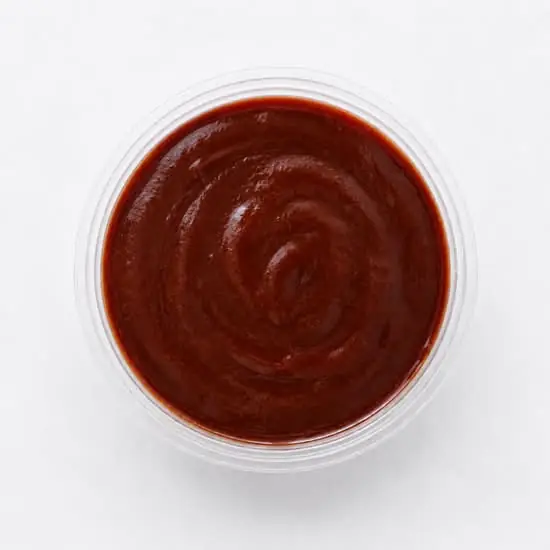
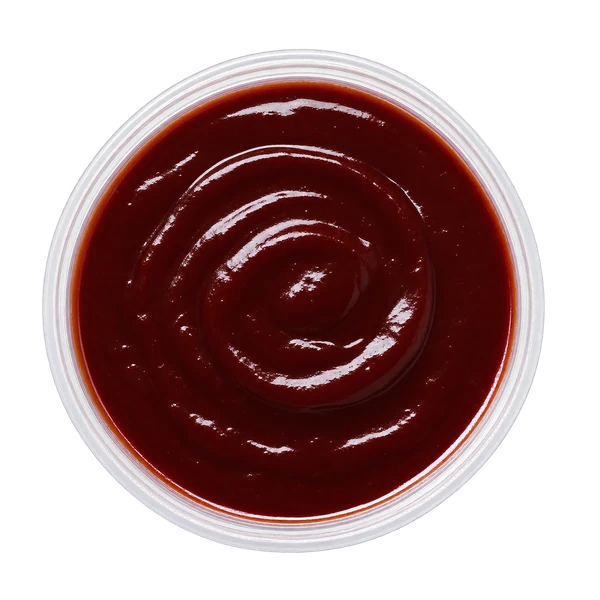
Add files via upload

diff --git a/menu-data.js b/menu-data.js
@@ -27,7 +27,7 @@ const MENU = [
         { label:"Elige tu bebida mini", short:"Bebida", list:["Coca-Cola Original","Coca-Cola Zero","Sprite","Fanta"] }
       ] },
 
-    { id:"combo-complices", name:"Combo Cómplices", people:2, desc:"4 slices a elección y 2 bebidas mini. Para 2 personas.", price:16990, img:"/combo-complices.webp",
+    { id:"combo-complices", name:"Combo Cómplices", people:2, desc:"4 slices a elección y 2 bebidas mini. Para 2 personas.", price:16990, img:"/combo-complices.webp?v=2",
       bundleChoices:[
         { label:"Elige tu slice 1", short:"Slice 1", list:["Tony Pepperoni","The Good Meat","Il Traditore","Napolitana","Margarita","Al Ajillo Boss","Funghi"] },
         { label:"Elige tu slice 2", short:"Slice 2", list:["Tony Pepperoni","The Good Meat","Il Traditore","Napolitana","Margarita","Al Ajillo Boss","Funghi"] },
@@ -62,25 +62,25 @@ const MENU = [
   { id:"pizzas", name:"Pizzas", note:"Formato único de 40 cm.", items:[
     { id:"tgm", name:"The Good Meat", desc:"Carne Mechada, Tocino, Salsa Pomodoro New York y Queso Mozzarella.",
       price:16990, img:"/tgm.webp", combo:{ all:{ extra:5000, desc:"+ Palitos de ajo + Bebida 1.5 L" } },
-      suggest:{ ids:["top-bbq", "top-pomodoro", "top-parmigiano", "top-ketchup"] } },
+      suggest:{ ids:["top-bbq", "top-pomodoro", "top-parmigiano"] } },
     { id:"pepperoni", name:"Tony Pepperoni", desc:"Pepperoni Americano Ultradelgado, Salsa Pomodoro New York y Queso Mozzarella.",
       price:16990, img:"/pepperoni.webp", combo:{ all:{ extra:5000, desc:"+ Palitos de ajo + Bebida 1.5 L" } },
-      suggest:{ ids:["top-bbq", "top-pomodoro", "top-parmigiano", "top-ketchup"] } },
+      suggest:{ ids:["top-bbq", "top-pomodoro", "top-parmigiano"] } },
     { id:"pollo-bbq", name:"Il Traditore", desc:"Pollo BBQ, Tocino, Cebolla Morada, Salsa BBQ y Queso Mozzarella.",
       price:16990, img:"/pollo-bbq.webp", combo:{ all:{ extra:5000, desc:"+ Palitos de ajo + Bebida 1.5 L" } },
-      suggest:{ ids:["top-bbq", "top-pomodoro", "top-parmigiano", "top-ketchup"] } },
+      suggest:{ ids:["top-bbq", "top-pomodoro", "top-parmigiano"] } },
     { id:"napolitana", name:"Napolitana", desc:"Jamón, Tomate, Aceitunas de la Zona, Salsa Pomodoro New York, Queso Mozzarella y Orégano.",
       price:14990, img:"/napolitana.webp", combo:{ all:{ extra:5000, desc:"+ Palitos de ajo + Bebida 1.5 L" } },
-      suggest:{ ids:["top-bbq", "top-pomodoro", "top-parmigiano", "top-ketchup"] } },
+      suggest:{ ids:["top-bbq", "top-pomodoro", "top-parmigiano"] } },
     { id:"margarita", name:"Margarita", desc:"Salsa Pomodoro New York, Queso Mozzarella y Albahaca Fresca.",
       price:14990, img:"/margarita.webp", combo:{ all:{ extra:5000, desc:"+ Palitos de ajo + Bebida 1.5 L" } },
-      suggest:{ ids:["top-bbq", "top-pomodoro", "top-parmigiano", "top-ketchup"] } },
+      suggest:{ ids:["top-bbq", "top-pomodoro", "top-parmigiano"] } },
     { id:"ajillo", name:"Al Ajillo Boss", desc:"Camarones al Ajillo, Pimentón Rojo, Salsa Pomodoro New York, Queso Mozzarella y Perejil Fresco.",
-      price:16990, img:"", combo:{ all:{ extra:5000, desc:"+ Palitos de ajo + Bebida 1.5 L" } },
-      suggest:{ ids:["top-bbq", "top-pomodoro", "top-parmigiano", "top-ketchup"] } },
+      price:16990, img:"/ajillo.webp", combo:{ all:{ extra:5000, desc:"+ Palitos de ajo + Bebida 1.5 L" } },
+      suggest:{ ids:["top-bbq", "top-pomodoro", "top-parmigiano"] } },
     { id:"funghi", name:"Funghi", desc:"Champiñones y Callampas Deshidratadas, Salsa Bechamel, Queso Mozzarella, Queso Parmigiano y Perejil Fresco.",
-      price:14990, img:"", combo:{ all:{ extra:5000, desc:"+ Palitos de ajo + Bebida 1.5 L" } },
-      suggest:{ ids:["top-bbq", "top-pomodoro", "top-parmigiano", "top-ketchup"] } },
+      price:14990, img:"/funghi.webp", combo:{ all:{ extra:5000, desc:"+ Palitos de ajo + Bebida 1.5 L" } },
+      suggest:{ ids:["top-bbq", "top-pomodoro", "top-parmigiano"] } },
   ]},
   { id:"nuestras-pastas", name:"Nuestras Pastas", items:[
     { id:"np-bolognesa-albondigas", name:"La Bolognesa del Don", desc:"Fetuccini con salsa Bolognesa, 3 albóndigas y Parmigiano.", price:10490, img:"/np-bolognesa-albondigas.webp" },
@@ -104,10 +104,9 @@ const MENU = [
     { id:"pollo-gravy", name:"Pollo con Gravy", desc:"Pollo al horno con Salsa Gravy.", price:2990, img:"/pollo-gravy.webp" }
   ]},
   { id:"toppings", name:"Toppings", items:[
-    { id:"top-bbq", name:"BBQ", price:990, img:"/bbq.webp" },
-    { id:"top-pomodoro", name:"Pomodoro New York", price:990, img:"/pomodoro.webp" },
-    { id:"top-parmigiano", name:"Parmigiano", price:1290, img:"/parmigiano.webp" },
-    { id:"top-ketchup", name:"Ketchup", price:990, img:"/ketchup.webp" }
+    { id:"top-bbq", name:"BBQ", price:990, img:"/bbq.webp?v=2" },
+    { id:"top-pomodoro", name:"Pomodoro New York", price:990, img:"/pomodoro.webp?v=2" },
+    { id:"top-parmigiano", name:"Parmigiano", price:1290, img:"/parmigiano.webp?v=2" }
   ]},
   { id:"bebidas", name:"Bebidas", compact:true, items:[
     { id:"beb-350", name:"Bebida mini", desc:"Coca-Cola Original, Coca-Cola Zero, Sprite o Fanta.", price:1800, img:"", drinkChoice:{ label:"Elige tu bebida mini", list:["Coca-Cola Original","Coca-Cola Zero","Sprite","Fanta"], suffix:"" } },

diff --git a/index.html b/index.html
@@ -91,6 +91,7 @@ main{max-width:1160px;margin:0 auto;padding:0 20px}
 @media(min-width:880px){.list{grid-template-columns:1fr 1fr}}
 
 .item{display:grid;grid-template-columns:minmax(0,1fr) auto;gap:12px 16px;padding:22px 0;border-bottom:1px solid var(--line)}
+.item .media img.dish{opacity:0;transition:opacity .28s ease}.item .media img.dish.ld{opacity:1}
 .item[hidden],.cat[hidden]{display:none!important}
 .item h3{font:400 24px/1.05 var(--serif);letter-spacing:.03em}
 .item:last-child{border-bottom:0}
@@ -1556,10 +1557,9 @@ const photoSrc = (it, pi=-1) => {
   return assetPath(f);
 };
 const CART_PHOTO_OVERRIDES = {
-  "top-bbq":"bbq.webp",
-  "top-ketchup":"ketchup.webp",
-  "top-pomodoro":"pomodoro.webp",
-  "top-parmigiano":"parmigiano.webp"
+  "top-bbq":"bbq.webp?v=2",
+  "top-pomodoro":"pomodoro.webp?v=2",
+  "top-parmigiano":"parmigiano.webp?v=2"
 };
 const cartPhotoSrc = l => CART_PHOTO_OVERRIDES[l.it.id] ? assetPath(CART_PHOTO_OVERRIDES[l.it.id]) : l.thumb;
 
@@ -2824,7 +2824,7 @@ function renderTicket(o){
       ${st >= 0 ? `<ol class="tk-track" aria-label="Estado del pedido">${STAGES.map((n, i) => `<li class="${i < st || (i === st && st === 3) ? "done" : i === st ? "cur" : ""}"${i === st ? ' aria-current="step"' : ""}><span class="dot">${i < st || (i === st && st === 3) ? "✓" : ""}</span>${esc(n)}</li>`).join("")}</ol>` : ""}
       ${rateHtml(o, st)}
       ${loyHtml(o)}
-      <details class="tk-det"><summary>Ver detalle</summary>
+      <details class="tk-det"${st === 3 ? " open" : ""}><summary>Ver detalle</summary>
         <div class="tk-meta">
           <div><span>Fecha</span><b>${esc(when)}</b></div>
           <div><span>Entrega</span><b>${delivery ? "Delivery" : "Retiro en local"}</b></div>
@@ -3115,6 +3115,16 @@ window.addEventListener("focus", loadAvailability);
   if(!seen){ setTimeout(()=>{ pop?.classList.add("on"); try{ sessionStorage.setItem("mafiaPopSeen","1"); }catch(e){} },700); }
 })();
 
+
+/* fotos: aparecen suavemente al terminar de cargar (sin cargar "por partes") */
+(function(){
+  function ok(i){ i.classList.add("ld"); }
+  function scan(){ document.querySelectorAll("img.dish:not(.ld)").forEach(function(i){ if (i.complete) ok(i); }); }
+  document.addEventListener("load", function(e){ if (e.target && e.target.tagName === "IMG" && e.target.classList.contains("dish")) ok(e.target); }, true);
+  document.addEventListener("error", function(e){ if (e.target && e.target.tagName === "IMG") ok(e.target); }, true);
+  scan(); setTimeout(scan, 400); setTimeout(scan, 1500); window.addEventListener("load", scan);
+  new MutationObserver(scan).observe(document.body, { childList:true, subtree:true });
+})();
 
 /* ---------- Filtro de COMBOS por personas ----------
    Usa data-pf (no "hidden"): la revisión de disponibilidad vuelve a calcular "hidden" y deshacía el filtro. */

diff --git a/local-defaults.js b/local-defaults.js
@@ -31,7 +31,7 @@ const LOCAL_DEFAULTS = {
     "cremita-zapallo": { img:"/fotos/local/cremita-zapallo.webp?v=2" },
     "palitos": { img:"/fotos/local/palitos-ajo.webp?v=2" },
     "combo-mafioso": { img:"/fotos/local/combo-mafioso.webp?v=2" },
-    "combo-complices": { img:"/fotos/local/combo-complices.webp?v=2", desc:"4 slices a elección y 2 Bebidas Mini." },
+    "combo-complices": { img:"/fotos/local/combo-complices.webp?v=3", desc:"4 slices a elección y 2 Bebidas Mini." },
     "promo-alfredo": { desc:"Fetuccini Alfredo y Bebida Mini." },
     "l-slice-bebida": { label:"Desde" },
     "l-familiar": { label:"Desde" },
@@ -53,11 +53,7 @@ const LOCAL_DEFAULTS = {
     "l-familiar": { noun:"pizzas", title:"ELIGE TU PIZZA XXL", items:[
       { n:"Margarita", img:"/fotos/local/margarita.webp", p:"$24.990" }, { n:"Funghi", img:"/fotos/local/funghi.webp", p:"$24.990" },
       { n:"Tony Pepperoni", img:"/fotos/local/pepperoni.webp", p:"$29.990" }, { n:"Il Traditore", img:"/fotos/local/pollo-bbq.webp", p:"$29.990" },
-      { n:"Napolitana", img:"/fotos/local/napolitana.webp", p:"$29.990" }, { n:"Al Ajillo Boss", img:"/fotos/local/ajillo.webp", p:"$29.990" } ] },
-    "combo-duo-del-don": { noun:"pastas", title:"ELIGE TUS PASTAS", items:[
-      { n:"Pesto Limón", img:"/fotos/local/np-pesto-lemon.webp" }, { n:"Alfredo Gravy", img:"/fotos/local/np-alfredo-gravy.webp" }, { n:"Bolognesa del Don", img:"/fotos/local/np-bolognesa-albondigas.webp" } ] },
-    "l-pasta-familia": { noun:"pastas", title:"ELIGE HASTA 2 SABORES", items:[
-      { n:"Pesto Limón", img:"/fotos/local/np-pesto-lemon.webp" }, { n:"Alfredo Gravy", img:"/fotos/local/np-alfredo-gravy.webp" }, { n:"Bolognesa del Don", img:"/fotos/local/np-bolognesa-albondigas.webp" } ] }
+      { n:"Napolitana", img:"/fotos/local/napolitana.webp", p:"$29.990" }, { n:"Al Ajillo Boss", img:"/fotos/local/ajillo.webp", p:"$29.990" } ] }
   },
   notes: { pizzas: "Pizzas XXL o Slices", combos: "" },
   /* Banners de arriba. "to": #seccion, o #item:ID (lleva a ese plato), o #item:ID:slice (idem, con la carta en Slice) */
